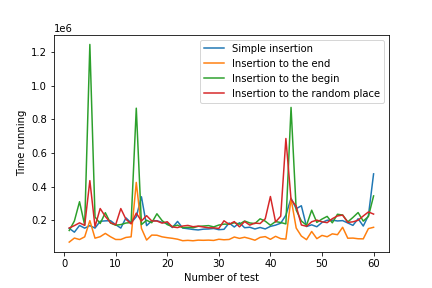
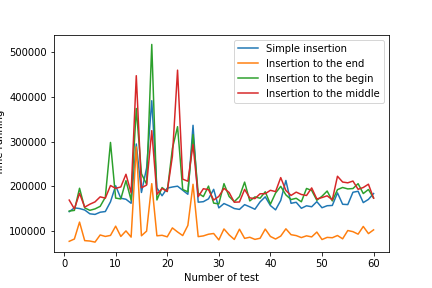
dug fixed

diff --git a/main.cpp b/main.cpp
@@ -18,6 +18,8 @@ void test_together(){
     myfile << "Insert  Hint  Begin  Random" << std::endl;
     
     for(int i = 0; i < 60; i++ ){
+        std::cout << "Iteration №" << i << std::endl;
+        
         auto start = std::chrono::system_clock::now();
         map_insert();
         auto end = std::chrono::system_clock::now();
@@ -37,7 +39,7 @@ void test_together(){
         myfile << std::to_string((end - start).count()) << " ";
         
         start = std::chrono::system_clock::now();
-        map_emplace_hint_begin();
+        map_emplace_hint_middle();
         end = std::chrono::system_clock::now();
         //std::cout << "Random: " << (end - start).count() << std::endl;
         myfile << std::to_string((end - start).count()) << " " << std::endl;;
@@ -46,9 +48,8 @@ void test_together(){
 }
 int main() {
     
-    
     test_together();
-    
+
     
     auto start = std::chrono::system_clock::now();
     // Comment function above and write function under for independent test:

diff --git a/Functions_map.hpp b/Functions_map.hpp
@@ -52,16 +52,16 @@ std::size_t map_emplace_hint_begin() {
 }
 
 // inserting to the random pos
-std::size_t map_emplace_hint_random() {
+std::size_t map_emplace_hint_middle() {
     std::map<int, std::string> map;
+    map.insert({0, "BOBOBO"});
     auto it = map.begin();
     uint tmp = ITER_QUANTITY;
     uint pos;
-    for (int i = 0; i < tmp; ++i) {
-        pos = rand() % map.size();
-        std::advance(it, pos);
+    for (int i = 1; i < tmp; ++i) {
         map.emplace_hint(it, i, "BOBOBO" + std::to_string(i));
-        it = map.begin();
+        if (i%2 == 0)
+            it++;
     }
     return map.size();
 }
